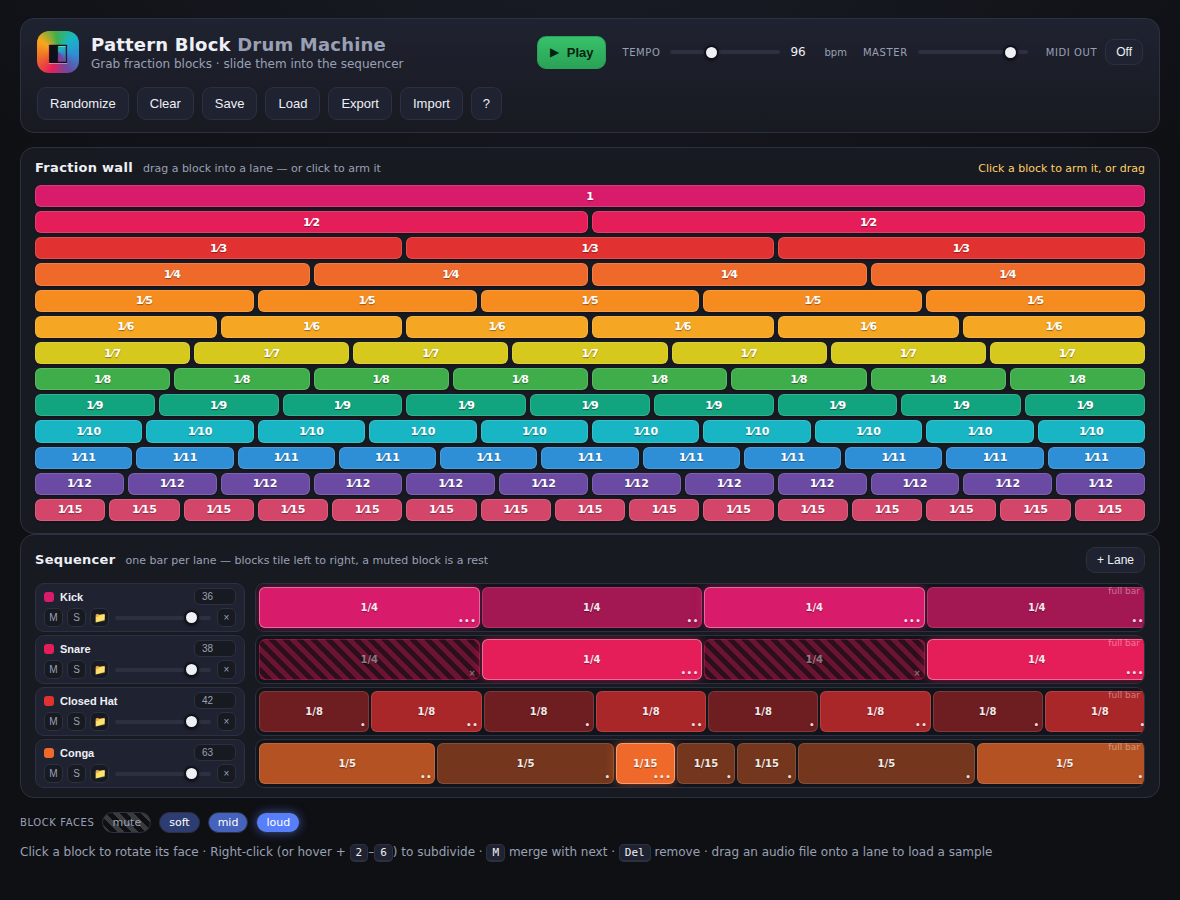
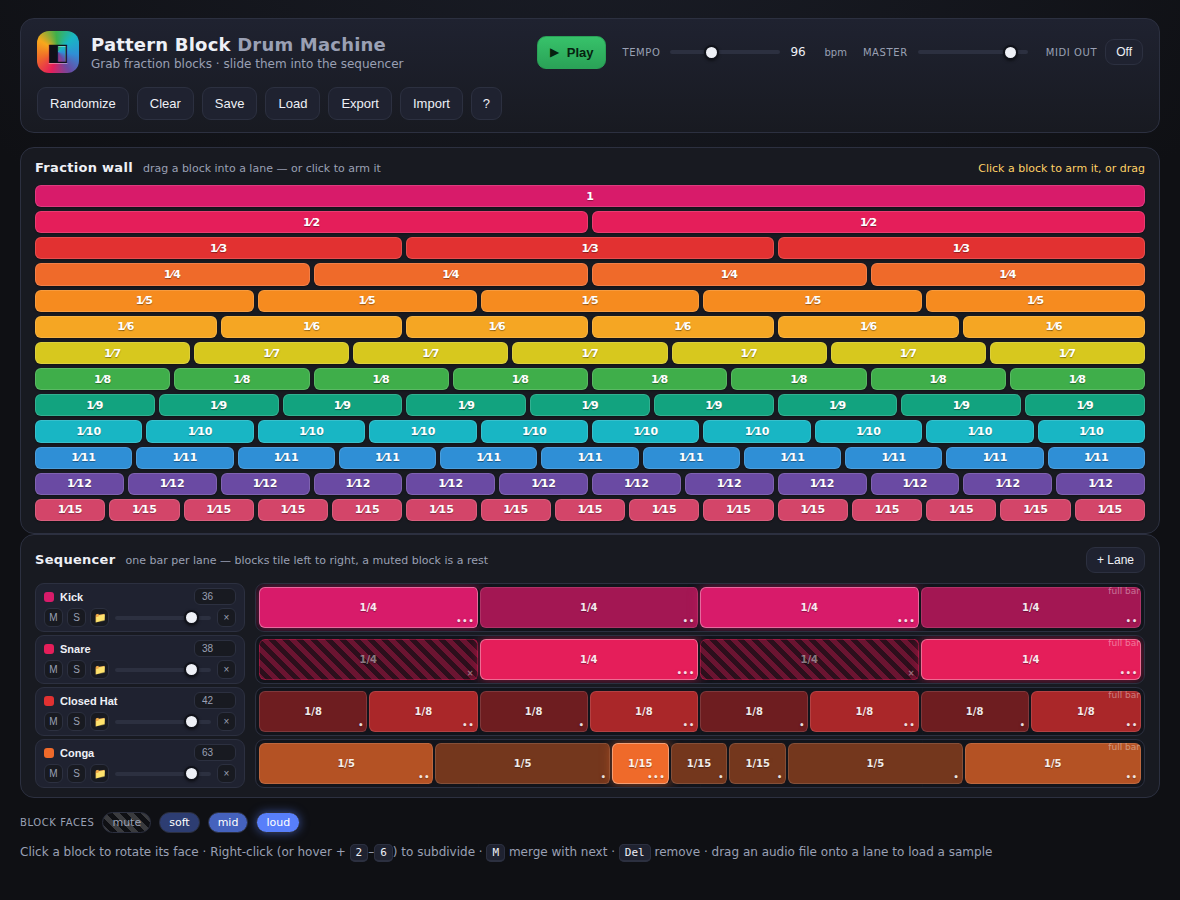
Fix split-alignment drift; brush follows last click; label unfinished lanes
- Alignment bug: flexbox `gap` was adding pixels on top of each block's
  percentage width, so subdividing a block added extra gaps and the row
  grew past 100%, drifting out of sync with other lanes. Replaced the gap
  with a border-box seam between blocks (border-right, no flex gap), which
  can't add width beyond a block's own declared share. Verified: 10-piece
  split now drifts <0.2px (float rounding only) vs. ~18px before.
- Brush now tracks whichever block you clicked last, wall or placed —
  clicking a placed block rotates its face as before and also arms the
  brush to that exact fraction, so you can lift a shape straight off the
  sequencer instead of only from the wall.
- Unfinished lanes show a faint dashed "ghost" over their remaining time
  with a label (e.g. "3/4 left"), computed via exact fraction arithmetic
  (no float rounding) so it's accurate at any denominator, including ones
  the wall grew to on the fly.

Claude-Session: https://claude.ai/code/session_01JLy3ZtVPaGqb343nudpiEm

diff --git a/app.js b/app.js
@@ -43,6 +43,9 @@ function fracLabel(b) {
   if (r.d === 1) return String(r.n);
   return `${r.n}/${r.d}`;
 }
+// Exact rational addition (avoids float drift for the running lane total).
+function addFrac(a, b) { return reduce(a.n * b.d + b.n * a.d, a.d * b.d); }
+function laneSumFrac(lane) { return lane.blocks.reduce((s, b) => addFrac(s, b), { n: 0, d: 1 }); }
 
 /* ------------------------------ state ---------------------------------- */
 // Built-in synth voices (rendered to buffers at startup).
@@ -442,16 +445,23 @@ const $ = (sel, el = document) => el.querySelector(sel);
 const el = (tag, cls, html) => { const e = document.createElement(tag); if (cls) e.className = cls; if (html != null) e.innerHTML = html; return e; };
 
 let drag = null;   // active drag payload: { kind:'new'|'move', n, d, face, fromLane?, fromIdx? }
-let armed = null;  // "brush": last-clicked palette fraction, click a lane to place it
+let armed = null;  // "brush": the last block clicked (wall or placed) — click a lane to place a copy
 
-function setArmed(den) {
-  armed = armed && armed.d === den ? null : { n: 1, d: den };   // click again to disarm
+// Arm the brush to a fraction. Any block click (wall or placed) calls this, so
+// the brush always tracks whatever you last clicked.
+function setArmed(n, d) {
+  armed = { n, d };
   updateBrushUI();
-  document.querySelectorAll('.pblock').forEach((b) => b.classList.toggle('armed', armed != null && +b.dataset.d === armed.d));
+  document.querySelectorAll('.pblock').forEach((b) => b.classList.toggle('armed', armed.n === 1 && +b.dataset.d === armed.d));
+}
+function disarm() {
+  armed = null;
+  updateBrushUI();
+  document.querySelectorAll('.pblock.armed').forEach((b) => b.classList.remove('armed'));
 }
 function updateBrushUI() {
   const info = document.getElementById('brushInfo');
-  if (info) info.textContent = armed ? `Brush: ${armed.d === 1 ? '1' : '1/' + armed.d} — click a lane to place` : 'Click a block to arm it, or drag';
+  if (info) info.textContent = armed ? `Brush: ${fracLabel(armed)} — click a lane to place (Esc to put down)` : 'Click a block to arm it, or drag';
 }
 
 function renderPalette() {
@@ -468,7 +478,7 @@ function renderPalette() {
       b.dataset.n = 1; b.dataset.d = den;
       b.innerHTML = den === 1 ? '1' : `<span>1&frasl;${den}</span>`;
       b.title = den === 1 ? 'A whole bar — click to arm, or drag' : `A 1/${den} block — click to arm, or drag into a lane`;
-      b.addEventListener('click', () => setArmed(den));
+      b.addEventListener('click', () => setArmed(1, den));
       b.addEventListener('dragstart', (e) => {
         drag = { kind: 'new', n: 1, d: den, face: 'loud' };
         b.classList.add('dragging');
@@ -546,6 +556,10 @@ function renderSeq() {
       const w = Math.min(fval(b), 1) * 100;
       blockEl.style.flex = `0 0 ${w}%`;
       blockEl.style.setProperty('--c', rowColor((li % ROWS) + 1));
+      // seam (not flex `gap`) so splitting a block into pieces can't add extra
+      // total width — flex `gap` stacks on top of percentage widths and drifts
+      // the row out of alignment with other lanes as pieces are added.
+      if (bi < lane.blocks.length - 1) blockEl.classList.add('seam');
       blockEl.draggable = true;
       blockEl.dataset.bi = bi;
       if (fval(b) < 0.06) blockEl.classList.add('narrow');
@@ -556,6 +570,8 @@ function renderSeq() {
       blockEl.addEventListener('click', () => {
         if (dragged) { dragged = false; return; }
         rotateFace(lane, bi);
+        const r = reduce(b.n, b.d);
+        setArmed(r.n, r.d);   // last-clicked block (wall or placed) becomes the brush
       });
       blockEl.addEventListener('dragstart', (e) => {
         dragged = true;
@@ -572,9 +588,18 @@ function renderSeq() {
       track.appendChild(blockEl);
     });
 
+    // faint label over the remaining empty time in an unfinished lane
+    const sumFrac = laneSumFrac(lane);
+    if (lane.blocks.length && sumFrac.n < sumFrac.d) {
+      const remain = reduce(sumFrac.d - sumFrac.n, sumFrac.d);
+      const gapEl = el('div', 'gap', `<span class="gap-label">${fracLabel(remain)} left</span>`);
+      gapEl.style.flex = `0 0 ${Math.min(fval(remain), 1) * 100}%`;
+      track.appendChild(gapEl);
+    }
+
     // capacity readout
     const cap = el('div', 'cap');
-    cap.textContent = capacityLabel(sum);
+    cap.textContent = capacityLabel(sumFrac);
     track.appendChild(cap);
 
     // drop handling for the track (new block from palette OR moved block)
@@ -612,11 +637,12 @@ function renderSeq() {
   seq.appendChild(ph);
 }
 
-function capacityLabel(sum) {
-  const r = reduce(Math.round(sum * 720), 720); // 720 = lcm(1..12)/... enough resolution
-  if (Math.abs(sum - 1) < 1e-6) return 'full bar';
-  if (sum > 1) return 'over ' + (r.d === 1 ? r.n : `${r.n}/${r.d}`);
-  return (r.d === 1 ? r.n : `${r.n}/${r.d}`) + ' full';
+// sumFrac is the lane's exact placed total, e.g. { n: 5, d: 8 } for 5/8.
+function capacityLabel(sumFrac) {
+  const { n, d } = sumFrac;
+  if (n === d) return 'full bar';
+  if (n > d) { const r = reduce(n - d, d); return 'over ' + (r.d === 1 ? r.n : `${r.n}/${r.d}`); }
+  return (d === 1 ? n : `${n}/${d}`) + ' full';
 }
 
 /* ------------------------------ block ops ------------------------------ */
@@ -902,7 +928,7 @@ function wireControls() {
   document.addEventListener('keydown', (e) => {
     if (e.target.matches('input, textarea')) return;
     if (e.code === 'Space') { e.preventDefault(); state.playing ? stop() : play(); return; }
-    if (e.key === 'Escape' && armed) { setArmed(armed.d); return; }   // disarm the brush
+    if (e.key === 'Escape' && armed) { disarm(); return; }
     if (!hoverTarget) return;
     const { li, bi } = hoverTarget;
     if (!state.lanes[li] || !state.lanes[li].blocks[bi]) return;

diff --git a/styles.css b/styles.css
@@ -6,6 +6,7 @@
   --text: #eef0f6;
   --muted: #9aa0b4;
   --accent: #ffd166;
+  --track-bg: #12141b;
   font-synthesis: none;
 }
 
@@ -161,10 +162,15 @@ input[type=range]::-moz-range-thumb {
 .lane-vol { flex: 1; min-width: 30px; }
 
 /* Track = drop zone holding tiled blocks */
+/* No flex `gap` here on purpose: gap adds pixels *on top of* each block's
+   percentage width, so splitting a block into more pieces would push the
+   row wider than 100% and drift out of alignment with other lanes. Seams
+   between blocks are drawn as a border instead (see .block.seam), which
+   box-sizing: border-box keeps inside each block's own declared width. */
 .track {
-  position: relative; display: flex; gap: 2px; padding: 3px; border-radius: 9px;
+  position: relative; display: flex; padding: 3px; border-radius: 9px;
   background: repeating-linear-gradient(90deg, #14161d 0 1px, transparent 1px calc(25% )); /* quarter guides */
-  background-color: #12141b; border: 1px solid var(--line); overflow: hidden;
+  background-color: var(--track-bg); border: 1px solid var(--line); overflow: hidden;
 }
 .track.over { border-color: var(--accent); box-shadow: 0 0 0 1px var(--accent) inset; }
 .track.full { }
@@ -180,6 +186,20 @@ input[type=range]::-moz-range-thumb {
 .block.dragging { opacity: .45; }
 .block .blabel { pointer-events: none; opacity: .9; }
 .block.narrow .blabel { display: none; }
+/* seam between adjacent blocks — a border (inside box-sizing: border-box)
+   rather than a flex gap, so it never adds width beyond the block's own
+   percentage share. See the .track comment for why this matters. */
+.block.seam { border-right: 2px solid var(--track-bg); }
+
+/* faint ghost segment showing the unplaced remainder of an unfinished lane */
+.gap {
+  position: relative; min-width: 0; border-radius: 6px;
+  background: rgba(255,255,255,.03);
+  border: 1px dashed rgba(255,255,255,.1);
+  display: flex; align-items: center; justify-content: center;
+  pointer-events: none;   /* clicks fall through to the track's own placement handler */
+}
+.gap-label { font-size: 9px; color: rgba(255,255,255,.28); letter-spacing: .3px; white-space: nowrap; }
 
 .block.face-loud { box-shadow: inset 0 0 0 1px rgba(255,255,255,.35), 0 0 12px color-mix(in srgb, var(--c) 55%, transparent); }
 .block.face-mid  { background: color-mix(in srgb, var(--c) 74%, #0b0c11); }

diff --git a/README.md b/README.md
@@ -30,17 +30,22 @@ Everything runs locally in the browser with the Web Audio API. Nothing is upload
 
 - **Build a rhythm** — drag a block from the fraction wall into a lane, or
   **click a block to "arm" it** and then click a lane to drop a copy (no dragging
-  needed). Blocks tile from the left; left-to-right is the order they play. Press
-  <kbd>Esc</kbd> or click the armed block again to put the brush down.
+  needed). Blocks tile from the left; left-to-right is the order they play. The
+  brush always follows **whichever block you clicked last** — wall or placed —
+  so you can pick up a shape straight from the sequencer. Press <kbd>Esc</kbd> to
+  put the brush down. An unfinished lane shows a faint dashed ghost over its
+  remaining time (e.g. "3/4 left") so you can see what's left to fill.
 - **Rotate the faces** — click a placed block to turn it to its next face:
   **loud → mid → soft → mute**. That's the block's dynamic, like rotating a
   physical wooden block to a different face. A **muted** block still holds its
   time, so it doubles as a **rest**.
 - **Subdivide a beat** — right-click a block (or hover it and press
   <kbd>2</kbd>–<kbd>6</kbd>) to cut it into equal pieces. Split a `1/5` into 3
-  and you get three `1/15` pieces — the total length never changes. Any new size
-  that isn't on the wall yet (like `1/15`) is **added as a new row and the wall
-  reflows to fit**. Press <kbd>M</kbd> to merge a block back into the one after it.
+  and you get three `1/15` pieces — the total length never changes, and the
+  pieces stay in perfect alignment with the rest of the bar no matter how deep
+  you subdivide. Any new size that isn't on the wall yet (like `1/15`) is
+  **added as a new row and the wall reflows to fit**. Press <kbd>M</kbd> to merge
+  a block back into the one after it.
 - **Bring your own sounds** — each lane has its own sampler. Drag an audio file
   onto a lane, or click 📁 to load one. Click a lane's name to cycle through the
   12 built-in synth voices instead.
